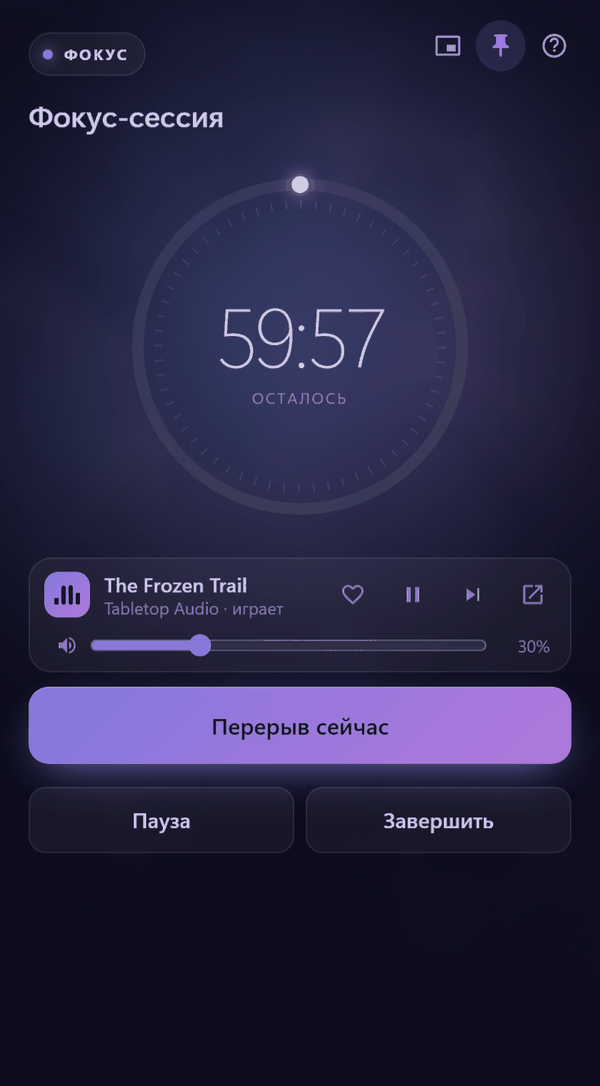
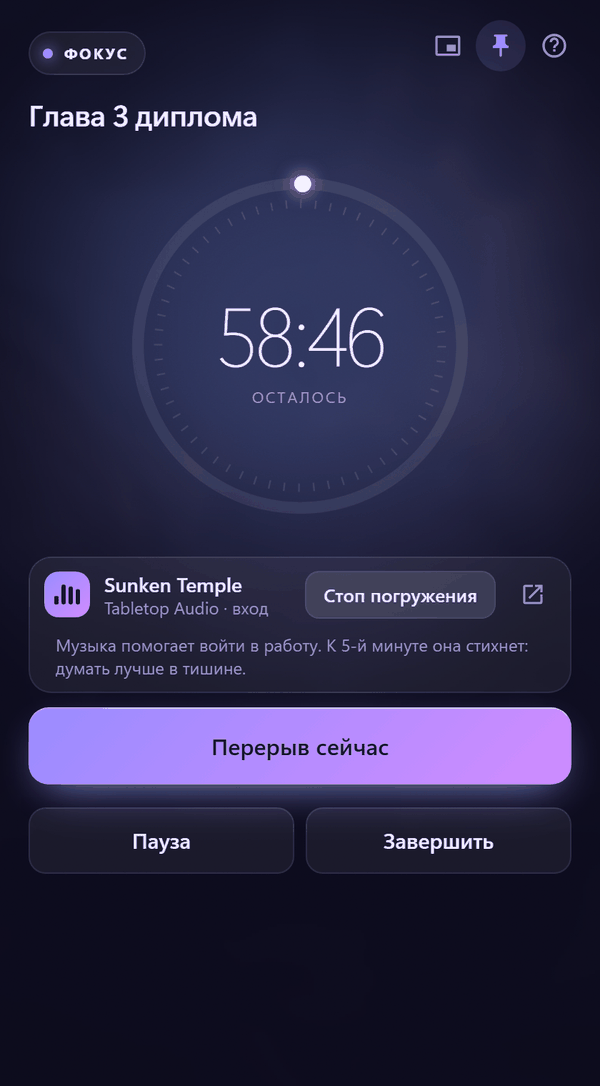
README: скриншоты фокуса и перерыва
Новые скриншоты текущего интерфейса: фокус с музыкой на вход
и перерыв «Отдых без экрана». Старые (прежняя панель музыки,
настройки сайтов) убраны.

diff --git a/README.md b/README.md
@@ -5,9 +5,9 @@
 Таймер для фокуса построенный на исследованиях о внимании, перерывах и фоновом звуке.
 
 <p align="center">
-  <img src="docs/screenshots/focus.png" width="300" alt="Экран фокуса: таймер, музыка и громкость">
+  <img src="docs/screenshots/focus.png" width="300" alt="Фокус: таймер, задача и музыка на вход">
   &nbsp;
-  <img src="docs/screenshots/sites.png" width="300" alt="Настройки: какие сайты сворачивать во время фокуса">
+  <img src="docs/screenshots/break.png" width="300" alt="Перерыв: отдых без экрана">
 </p>
 
 ## На чём построен Focus

diff --git a/README.en.md b/README.en.md
@@ -7,9 +7,9 @@ A research-based focus timer for Windows, built with Tauri 2.
 > **The interface is in Russian only for now.** This page is a short English overview; the full description is in the [Russian README](README.md).
 
 <p align="center">
-  <img src="docs/screenshots/focus.png" width="300" alt="Focus screen: timer and music">
+  <img src="docs/screenshots/focus.png" width="300" alt="Focus: timer, task and entry music">
   &nbsp;
-  <img src="docs/screenshots/sites.png" width="300" alt="Settings: which sites to minimize during focus">
+  <img src="docs/screenshots/break.png" width="300" alt="Break: rest away from the screen">
 </p>
 
 ## Features
